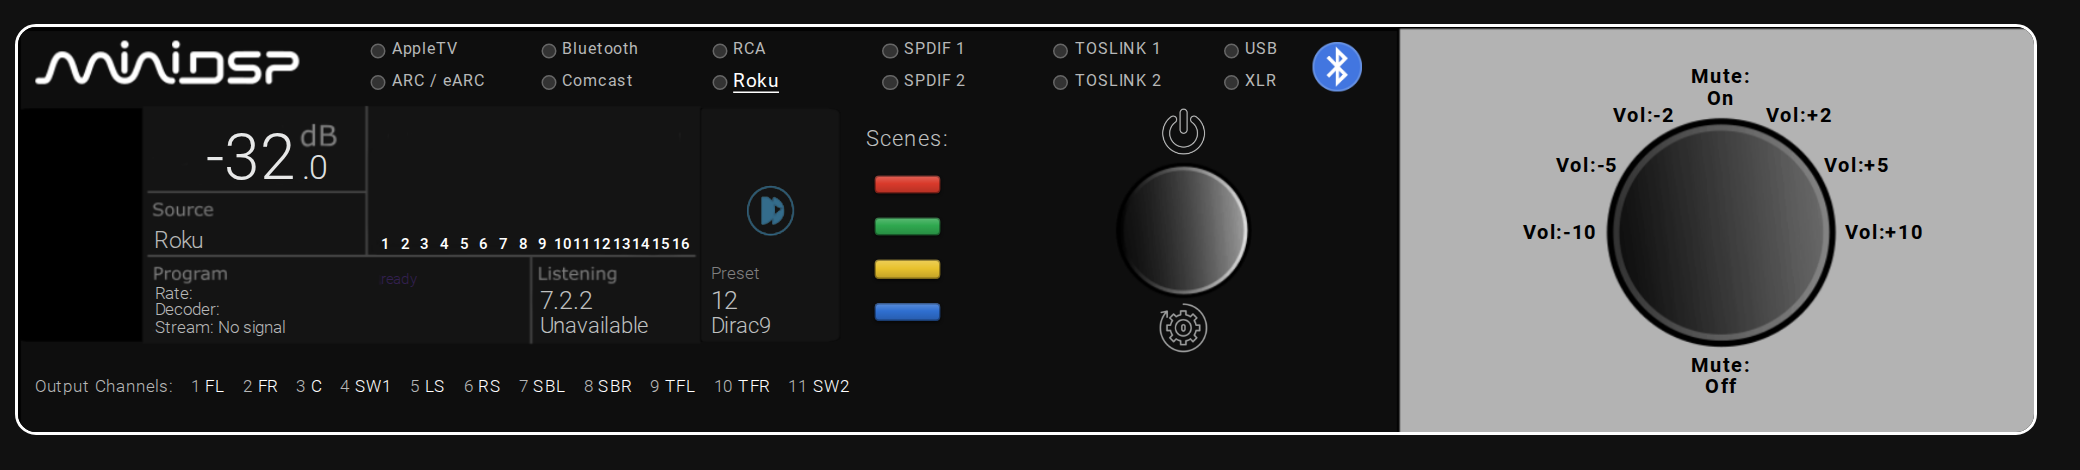
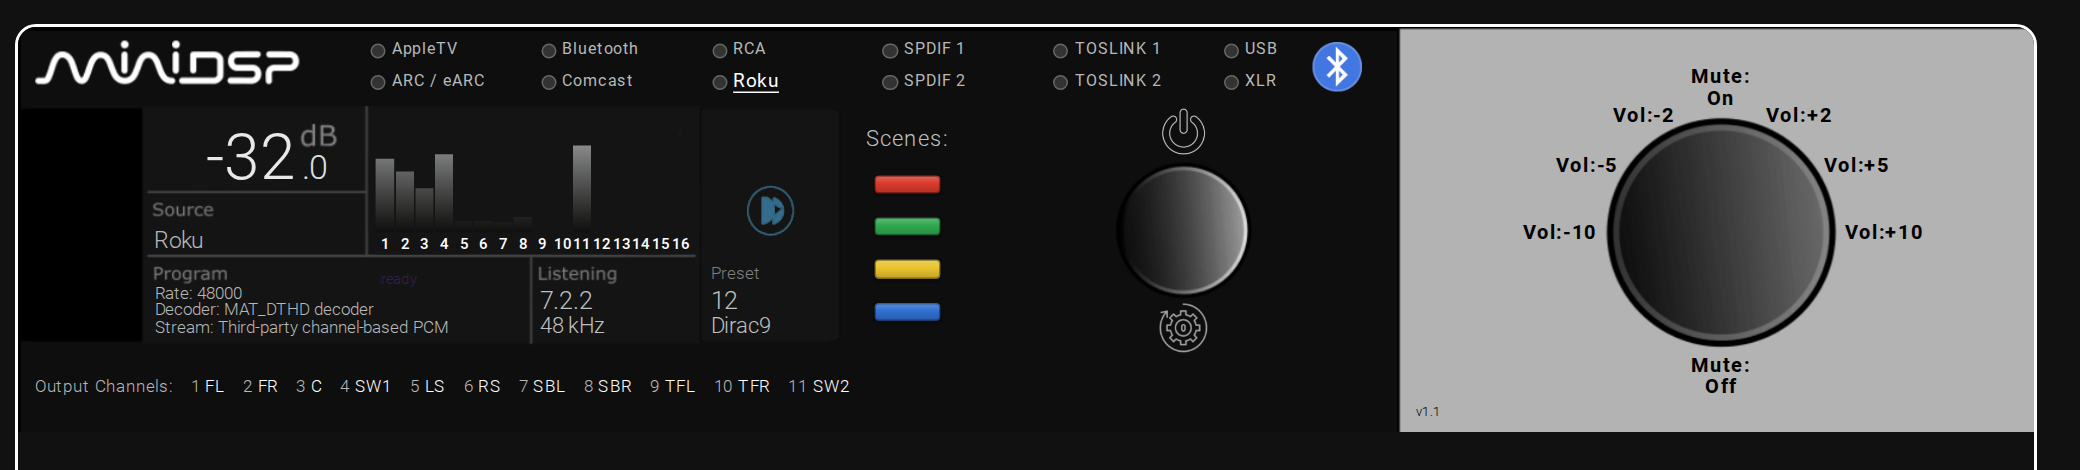
Stamp the version on the card and on the plate
The card logs "TIDE16 1.1.0" on load: the frontend caches /local/ hard
and the resource ?v= is the only thing that busts it, so which build a
browser actually has should be one glance rather than a guess.

The plate carries a small black "v1.1" in the bottom-left of the silver
end panel - a readout with a title and no rows, which is this card's
static-text element.

diff --git a/dist/tide16-bars.js b/dist/tide16-bars.js
@@ -1257,8 +1257,14 @@ if (!customElements.get('tide16-inputs')) {
   customElements.define('tide16-inputs', Tide16Inputs);
 }
 
+// Bumped with the repo tag. Printed on load so a stale cached copy is
+// one glance in the console rather than a guess - the frontend caches
+// /local/ hard, and the resource URL's ?v= is the only thing that busts
+// it.
+const TIDE16_VERSION = '1.1.0';
+
 console.info(
-  '%c TIDE16 %c live 16-channel meter + channel legend + scene buttons + knob labels ',
+  `%c TIDE16 ${TIDE16_VERSION} %c meter + legend + readouts + inputs + scenes + knob labels + glyphs `,
   'color:#0b1013;background:#ABACAC;font-weight:700',
   'color:#ABACAC;background:#0b1013'
 );
